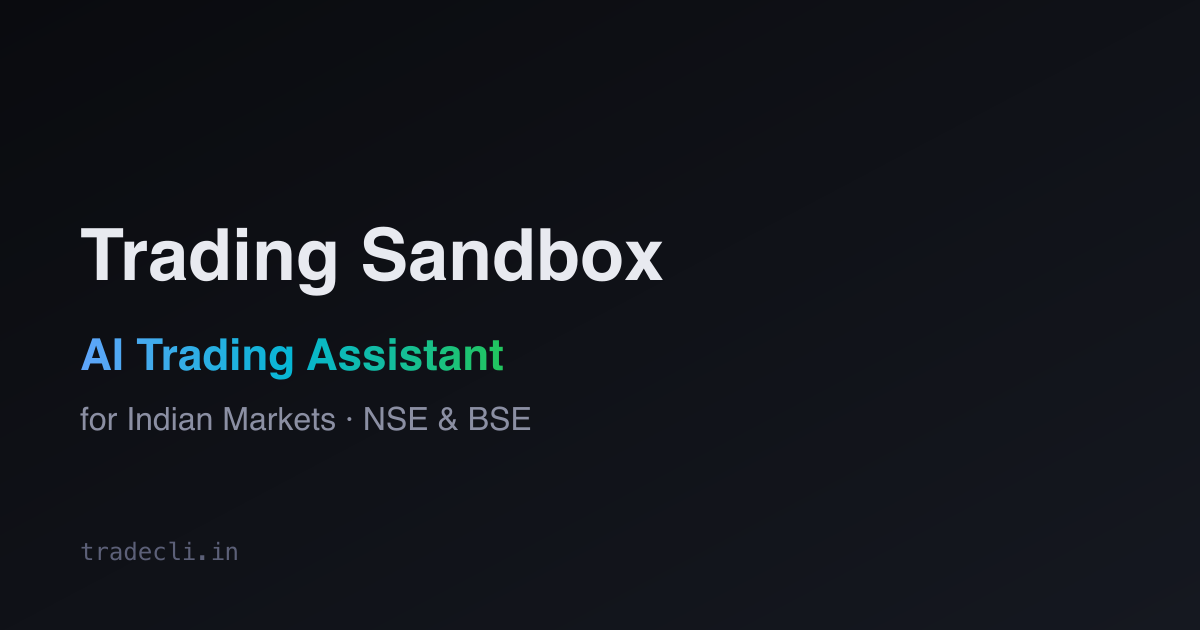
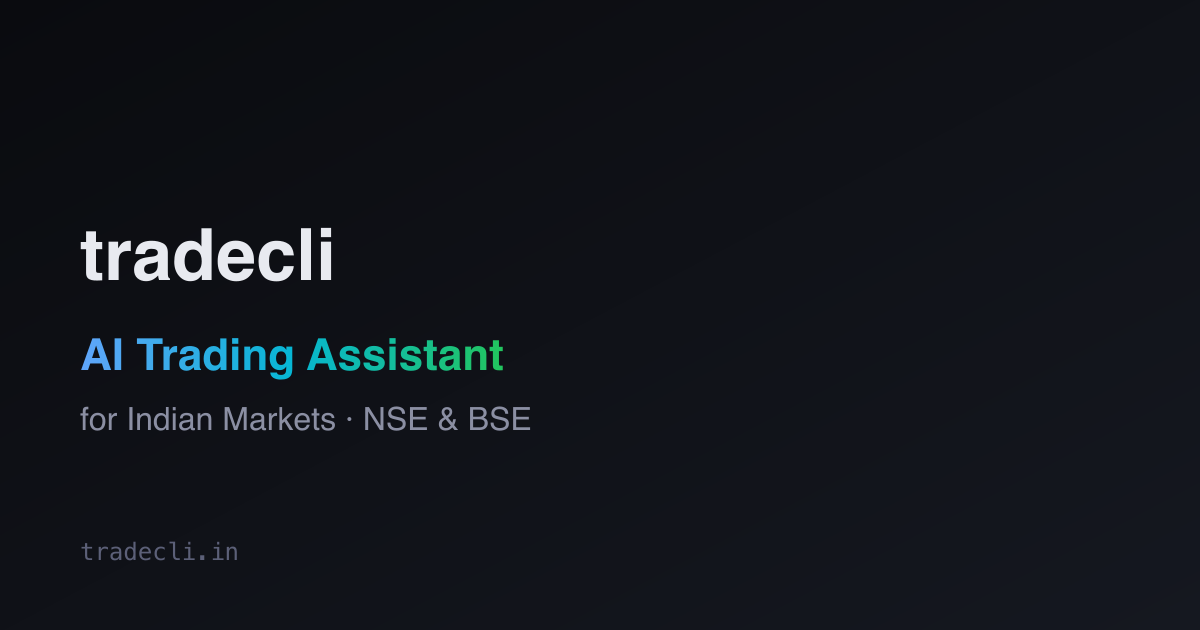
chore(site): phase A — rebrand + wiki sidebar reorg + nav polish
- Rebrand user-facing "Trading Sandbox" → "tradecli" across page titles,
  meta descriptions, OG card, and visible headings on index/about/updates/404.
  Regenerated assets/og-default.png from updated generator.
- Wiki sidebar: drop "Extending" section. "Skills & Extensions" removed;
  "Channels & API" moved into Guides. Fixed now-dead links in
  getting-started/quick-start.md, guides/personas.md, index.md.
- Main-site nav: remove "Updates" entry from desktop and mobile menus.
  Page remains reachable via footer.
- Wiki: add appearance: false to hide the non-functional dark/light toggle.
  Dark-only CSS in theme/custom.css is unchanged.

Infrastructure identifiers (GitHub org, brew tap, repo name, package.json
name, SITE_BASE paths, preview URL hostname) kept as-is — renaming would
break links and CI paths.

Changed region(s): [[0.0617, 0.3619, 0.555, 0.4825]]

diff --git a/about/index.html b/about/index.html
@@ -2,10 +2,10 @@
 <html lang="en">
 <head>
   <!-- @@HEAD_BASE@@ -->
-  <title>About — Trading Sandbox</title>
-  <meta name="description" content="Why Trading Sandbox exists and who's building it — the origin story behind the AI trading assistant for Indian markets." />
-  <meta property="og:title" content="About — Trading Sandbox" />
-  <meta property="og:description" content="Why Trading Sandbox exists and who's building it." />
+  <title>About — tradecli</title>
+  <meta name="description" content="Why tradecli exists and who's building it — the origin story behind the AI trading assistant for Indian markets." />
+  <meta property="og:title" content="About — tradecli" />
+  <meta property="og:description" content="Why tradecli exists and who's building it." />
   <meta property="og:image" content="https://tradecli.in/assets/og-default.png" />
   <meta property="og:url" content="https://tradecli.in/about/" />
   <meta name="twitter:card" content="summary_large_image" />
@@ -18,10 +18,10 @@
       <div class="container">
         <div class="section-label">About Us</div>
         <h1 class="section-title" style="max-width: 720px;">
-          Why Trading Sandbox exists
+          Why tradecli exists
         </h1>
         <p class="section-desc" style="font-size: 1.15rem; max-width: 720px;">
-          Indian retail traders have world-class brokers but fragmented tooling. Trading Sandbox is one terminal-based AI companion that learns with you, researches for you, and acts through the platforms you already use.
+          Indian retail traders have world-class brokers but fragmented tooling. tradecli is one terminal-based AI companion that learns with you, researches for you, and acts through the platforms you already use.
         </p>
       </div>
     </section>

diff --git a/updates/index.html b/updates/index.html
@@ -2,10 +2,10 @@
 <html lang="en">
 <head>
   <!-- @@HEAD_BASE@@ -->
-  <title>Updates — Trading Sandbox</title>
-  <meta name="description" content="What's shipped and what's next — hand-curated highlights of Trading Sandbox releases." />
-  <meta property="og:title" content="Updates — Trading Sandbox" />
-  <meta property="og:description" content="Shipped features and upcoming work for Trading Sandbox." />
+  <title>Updates — tradecli</title>
+  <meta name="description" content="What's shipped and what's next — hand-curated highlights of tradecli releases." />
+  <meta property="og:title" content="Updates — tradecli" />
+  <meta property="og:description" content="Shipped features and upcoming work for tradecli." />
   <meta property="og:image" content="https://tradecli.in/assets/og-default.png" />
   <meta property="og:url" content="https://tradecli.in/updates/" />
   <meta name="twitter:card" content="summary_large_image" />
@@ -17,7 +17,7 @@
     <section class="hero" style="padding: 120px 0 60px;">
       <div class="container">
         <div class="section-label">Updates</div>
-        <h1 class="section-title" style="max-width: 720px;">What's happening with Trading Sandbox</h1>
+        <h1 class="section-title" style="max-width: 720px;">What's happening with tradecli</h1>
         <p class="section-desc" style="max-width: 720px;">Hand-curated highlights of what's shipped and what's coming.</p>
       </div>
     </section>

diff --git a/shared/nav.html b/shared/nav.html
@@ -8,7 +8,6 @@
       <li><a href="{{SITE_BASE}}#personas">Personas</a></li>
       <li><a href="{{SITE_BASE}}#features">Features</a></li>
       <li><a href="{{SITE_BASE}}wiki/">Docs</a></li>
-      <li><a href="{{SITE_BASE}}updates/">Updates</a></li>
       <li><a href="{{SITE_BASE}}about/">About</a></li>
     </ul>
     <div class="nav-right-desktop">
@@ -26,7 +25,6 @@
   <a href="{{SITE_BASE}}#personas" onclick="document.getElementById('mobile-menu').classList.remove('open')">Personas</a>
   <a href="{{SITE_BASE}}#features" onclick="document.getElementById('mobile-menu').classList.remove('open')">Features</a>
   <a href="{{SITE_BASE}}wiki/" onclick="document.getElementById('mobile-menu').classList.remove('open')">Docs</a>
-  <a href="{{SITE_BASE}}updates/" onclick="document.getElementById('mobile-menu').classList.remove('open')">Updates</a>
   <a href="{{SITE_BASE}}about/" onclick="document.getElementById('mobile-menu').classList.remove('open')">About</a>
   <a href="https://github.com/TradingSandbox/homebrew-tradecli" target="_blank" rel="noopener">GitHub</a>
   <a href="{{SITE_BASE}}wiki/getting-started/quick-start" class="nav-cta" onclick="document.getElementById('mobile-menu').classList.remove('open')">Get Started</a>

diff --git a/index.html b/index.html
@@ -2,9 +2,9 @@
 <html lang="en">
 <head>
   <!-- @@HEAD_BASE@@ -->
-  <title>Trading Sandbox — AI-Powered Trading Assistant for Indian Markets</title>
+  <title>tradecli — AI Trading Assistant for Indian Markets</title>
   <meta name="description" content="Learn trading, analyze stocks, manage portfolios, and build strategies on NSE/BSE with an AI assistant that integrates with Groww and Zerodha." />
-  <meta property="og:title" content="Trading Sandbox — AI Trading Assistant for Indian Markets" />
+  <meta property="og:title" content="tradecli — AI Trading Assistant for Indian Markets" />
   <meta property="og:description" content="Learn trading, analyze stocks, manage portfolios on NSE/BSE with AI." />
   <meta property="og:image" content="https://tradecli.in/assets/og-default.png" />
   <meta property="og:url" content="https://tradecli.in/" />

diff --git a/wiki/.vitepress/config.ts b/wiki/.vitepress/config.ts
@@ -35,6 +35,7 @@ export default defineConfig({
   description: 'Documentation for the tradecli AI trading assistant.',
   base: DOCS_BASE,
   cleanUrls: true,
+  appearance: false,
 
   head,
 
@@ -65,13 +66,7 @@ export default defineConfig({
           { text: 'Investor', link: '/guides/investor' },
           { text: 'Trader', link: '/guides/trader' },
           { text: 'Portfolio Manager', link: '/guides/portfolio-manager' },
-        ],
-      },
-      {
-        text: 'Extending',
-        items: [
-          { text: 'Skills & Extensions', link: '/extending/skills' },
-          { text: 'Channels & API', link: '/extending/channels-api' },
+          { text: 'Channels & API', link: '/guides/channels-api' },
         ],
       },
     ],

diff --git a/build/generate-og-image.ts b/build/generate-og-image.ts
@@ -19,7 +19,7 @@ const svg = `<svg xmlns="http://www.w3.org/2000/svg" width="1200" height="630" v
   </defs>
   <rect width="1200" height="630" fill="url(#bg)"/>
   <text x="80" y="280" font-family="Inter, sans-serif" font-weight="800" font-size="72" fill="#e8eaf0">
-    Trading Sandbox
+    tradecli
   </text>
   <text x="80" y="370" font-family="Inter, sans-serif" font-weight="600" font-size="44" fill="url(#accent)">
     AI Trading Assistant

diff --git a/404.html b/404.html
@@ -2,7 +2,7 @@
 <html lang="en">
 <head>
   <!-- @@HEAD_BASE@@ -->
-  <title>Page not found — Trading Sandbox</title>
+  <title>Page not found — tradecli</title>
   <meta name="description" content="The page you're looking for doesn't exist." />
   <meta name="robots" content="noindex" />
 </head>

diff --git a/wiki/guides/personas.md b/wiki/guides/personas.md
@@ -40,7 +40,6 @@ Key properties:
 - **Deep dive on each** → [Learner Mode](/guides/learner) · [Investor](/guides/investor) · [Trader](/guides/trader) · [Portfolio Manager](/guides/portfolio-manager)
 - **Connect your broker** → [Broker Setup](../getting-started/broker-setup) — so persona tools can reach your account
 - **Configure the browser** → [Browser Setup](../getting-started/browser-setup) — for Streak workflows and some PM actions
-- **Extend a persona** → [Skills & Extensions](../extending/skills) — how skills are loaded, and how to add new ones
 
 ::: danger Not financial advice
 Persona outputs are educational and analytical. Nothing `tradecli` says constitutes a recommendation to buy, sell, or hold any security. Verify against primary sources before trading real capital.

diff --git a/wiki/getting-started/quick-start.md b/wiki/getting-started/quick-start.md
@@ -119,7 +119,7 @@ Once you have a working install:
 - **Connect your broker** → [Broker Setup](./broker-setup) — Groww and Zerodha Kite OAuth flows
 - **Configure the browser** → [Browser Setup](./browser-setup) — Chrome CDP for platform automation
 - **Deep-dive per persona** → [Personas guide](../guides/personas)
-- **Extend tradecli** → [Skills & Extensions](../extending/skills)
+- **Channels & API** → [Beyond the TUI](../guides/channels-api)
 
 ::: danger Not financial advice
 `tradecli` is an educational and analytical tool. Nothing it outputs constitutes a recommendation to buy, sell, or hold any security. Always verify AI outputs against primary sources before trading real capital.

diff --git a/wiki/index.md b/wiki/index.md
@@ -57,16 +57,7 @@ Documentation for `tradecli` — the terminal-based AI trading assistant for Ind
 - Setup
 - Typical prompts
 
-## Extending
-
-### [Skills & Extensions](/extending/skills)
-- What is a skill
-- Built-in skills
-- Extensions (`.pi/extensions/`)
-- Skill file format
-- Writing your own
-
-### [Channels & API](/extending/channels-api)
+### [Channels & API](/guides/channels-api)
 - What is a channel
 - The TUI channel
 - Telegram
